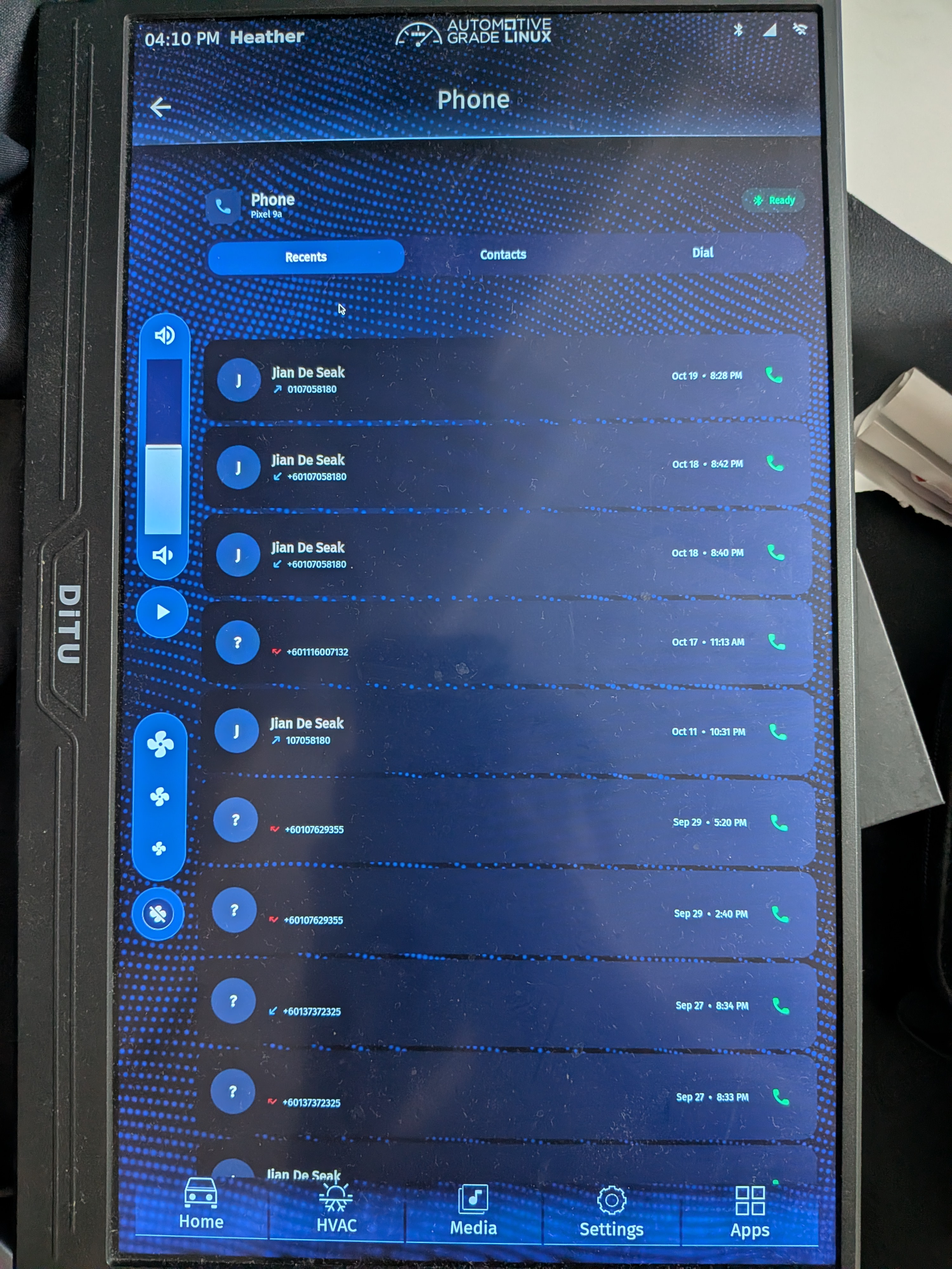
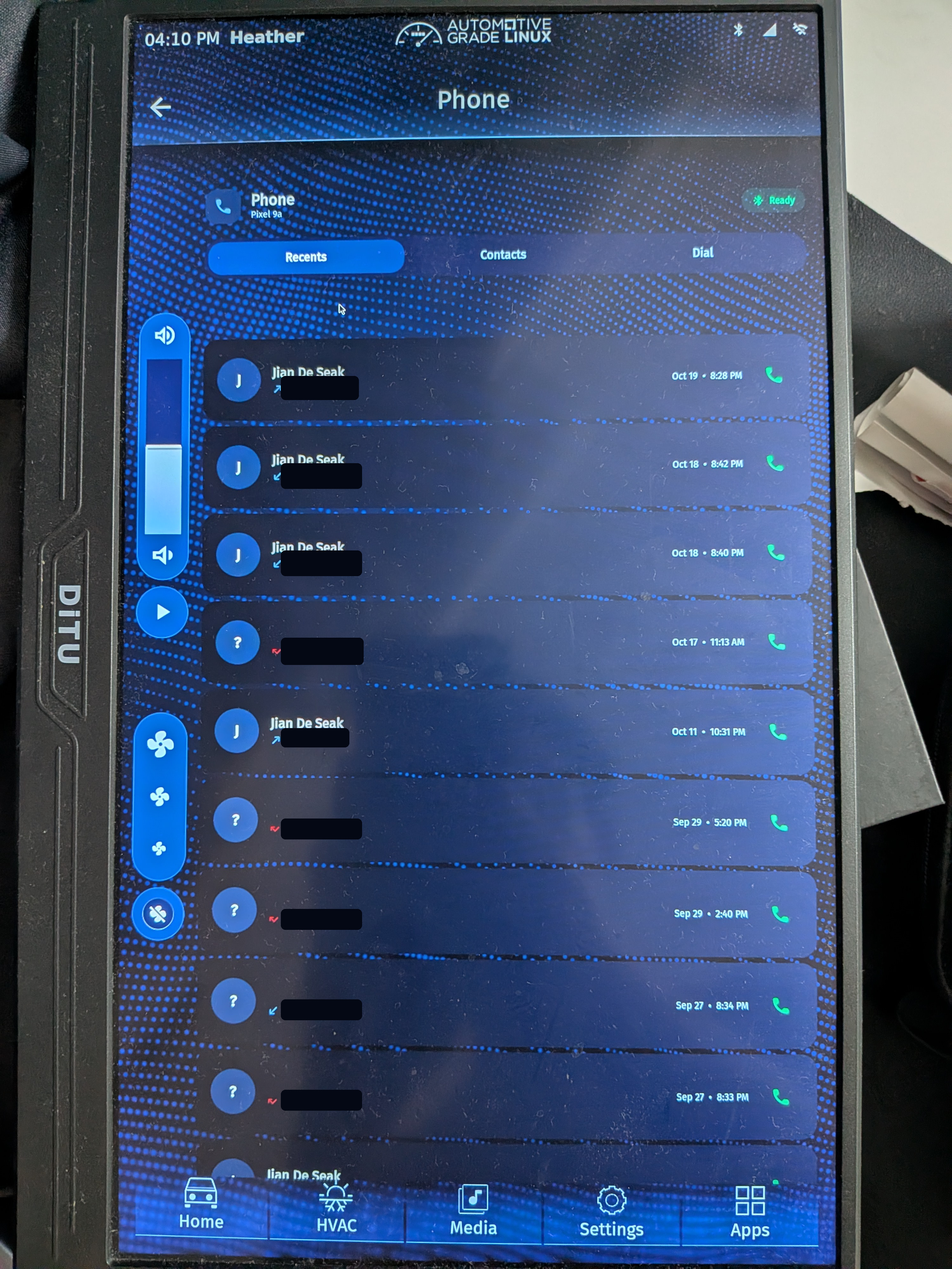
docs: update week 21 journal entry to mask phone numbers for privacy and remove outdated images

diff --git a/docs/content/journal/week-21.md b/docs/content/journal/week-21.md
@@ -19,6 +19,9 @@ OBEX libraries.
 
 ## AGL UI Validation
 
+All full and partial telephone numbers shown in the screenshots are masked for
+privacy.
+
 The AGL launcher exposes the Phone and Messages applications alongside the
 other homescreen applications. The shared left-side controls provide volume,
 playback, and mute access, while the bottom navigation keeps Home, HVAC, Media,
@@ -43,8 +46,8 @@ Each entry shows the contact or number, direction, timestamp, and a call-back
 button.
 
 <figure>
-  <img src="images/journal/week-21/PXL_20261019_133411890.jpg" alt="AGL Phone Recents view showing recent incoming and outgoing calls with contact names, numbers, timestamps, and call-back buttons." />
-  <figcaption>Recent-call history with direction indicators and one-touch call-back actions.</figcaption>
+  <img src="images/journal/week-21/PXL_20261019_133411890.jpg" alt="AGL Phone Recents view showing recent incoming and outgoing calls with contact names, privacy-masked numbers, timestamps, and call-back buttons." />
+  <figcaption>Recent-call history with privacy-masked numbers, direction indicators, and one-touch call-back actions.</figcaption>
 </figure>
 
 The Contacts view loads the phone book alphabetically and includes contact
@@ -60,8 +63,8 @@ keypad, hold, and end-call controls are presented as large touch targets for
 in-vehicle use.
 
 <figure>
-  <img src="images/journal/week-21/PXL_20261019_133436879.jpg" alt="AGL active-call screen showing a calling number and large Mute, Keypad, Hold, and End call controls." />
-  <figcaption>Active HFP call screen with the primary call-control actions.</figcaption>
+  <img src="images/journal/week-21/PXL_20261019_133436879.jpg" alt="AGL active-call screen showing a privacy-masked calling number and large Mute, Keypad, Hold, and End call controls." />
+  <figcaption>Active HFP call screen with the calling number masked for privacy and the primary call-control actions.</figcaption>
 </figure>
 
 The in-call keypad can be opened without leaving the call. The center action
@@ -70,22 +73,6 @@ changes to Hide keypad while Mute, Hold, and End call remain available.
 <figure>
   <img src="images/journal/week-21/PXL_20261019_133450572.jpg" alt="AGL in-call keypad showing DTMF keys, Mute, Hide keypad, Hold, and End call controls." />
   <figcaption>DTMF keypad available during an active call.</figcaption>
-</figure>
-
-The Messages detail view displays the message thread for a selected number,
-with the conversation history and a message composer at the bottom.
-
-<figure>
-  <img src="images/journal/week-21/PXL_20261019_133507869.jpg" alt="AGL Messages detail view showing an SMS conversation with a selected number, message history, and message composer." />
-  <figcaption>SMS conversation detail with message history and compose field.</figcaption>
-</figure>
-
-The Messages overview lists synchronized conversations and exposes refresh and
-compose actions from the header.
-
-<figure>
-  <img src="images/journal/week-21/PXL_20261019_133515493.jpg" alt="AGL Messages overview showing synchronized conversations from the connected phone with refresh and compose actions." />
-  <figcaption>Messages overview synchronized from the connected phone.</figcaption>
 </figure>
 
 ## Testing
